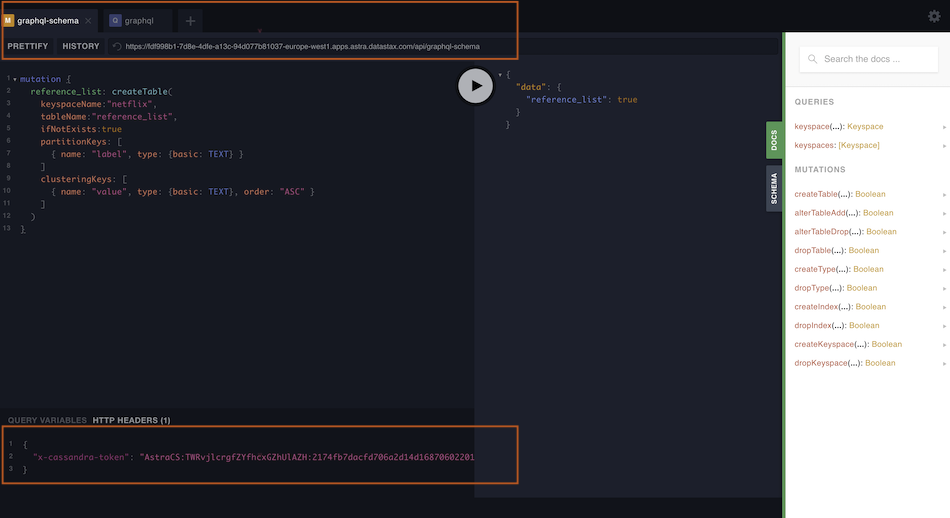
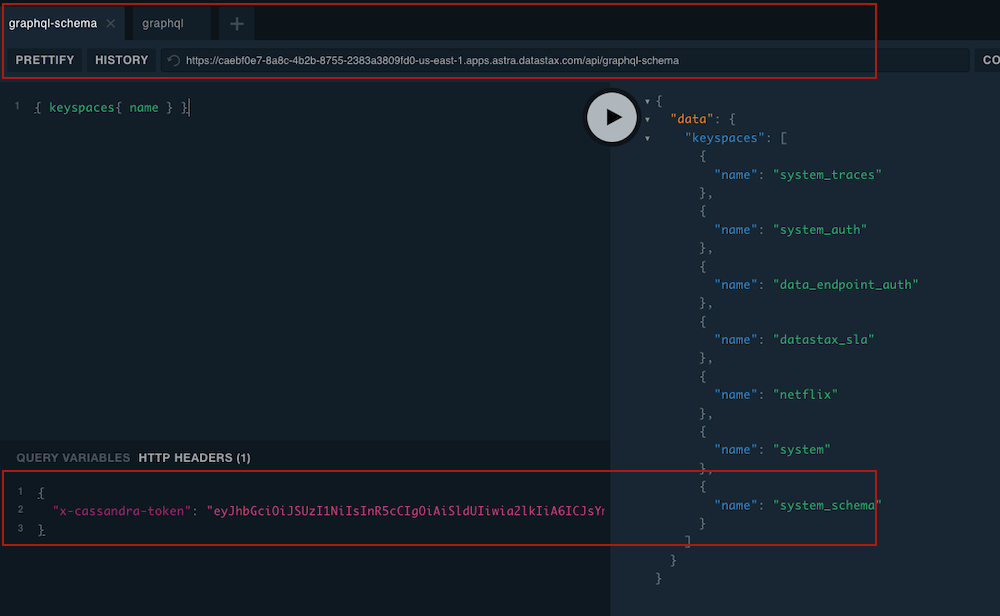
Fix instructions

diff --git a/README.md b/README.md
@@ -155,7 +155,7 @@ will not be visible afterward). The token you'll need looks like `AstraCS:KDfdKe
 
 > *Note that values in the picture do no reflect the database name `workshops`, reason is we do not reproduce every picture each time*
 
-✅  **Step 3b:** In GraphQL Playground ("graphql-schema" tab), **Populate HTTP HEADER** variable `x-cassandra-token` on the bottom of the page with your token as shown below
+✅  **Step 3b:** In GraphQL Playground ("graphql-schema" tab), **Validte HTTP HEADER** variable `x-cassandra-token` should have been populated for you. If this is not the case paste yout token there.
 
 ![image](img/graphql-playground.png?raw=true)
 
@@ -198,7 +198,7 @@ Response not successful: Received status code 401 | Same as "server cannot be re
 
 ✅  **Step 4a:** In graphQL playground, change tab to now use `graphql`. Edit the end of the URl to change from `system` to the name of your keyspace: `netflix`
 
-✅  **Step 4b:** Populate **HTTP HEADER** variable `x-cassandra-token` on the bottom of the page with your token as shown below (again !! yes this is not the same tab)
+✅  **Step 4b:** Validate that **HTTP HEADER** got variable `x-cassandra-token` populated for you, on the bottom of the page. Put your token as shown below if not available.
 
 ![image](img/graphql-playground-2.png?raw=true)
 
@@ -303,6 +303,10 @@ query getAllGenre {
 ## 6. Creating a Movies Table
 
 ✅  **Step 6a:** Switch back to first tab ("graphql-schema"). The token header should be already set, use the following mutation to create a new table:
+
+![image](/images/graphql-back.png?raw=true)
+
+
 _Remember to change the keyspaceName if you used something different_.
 
 ```yaml
